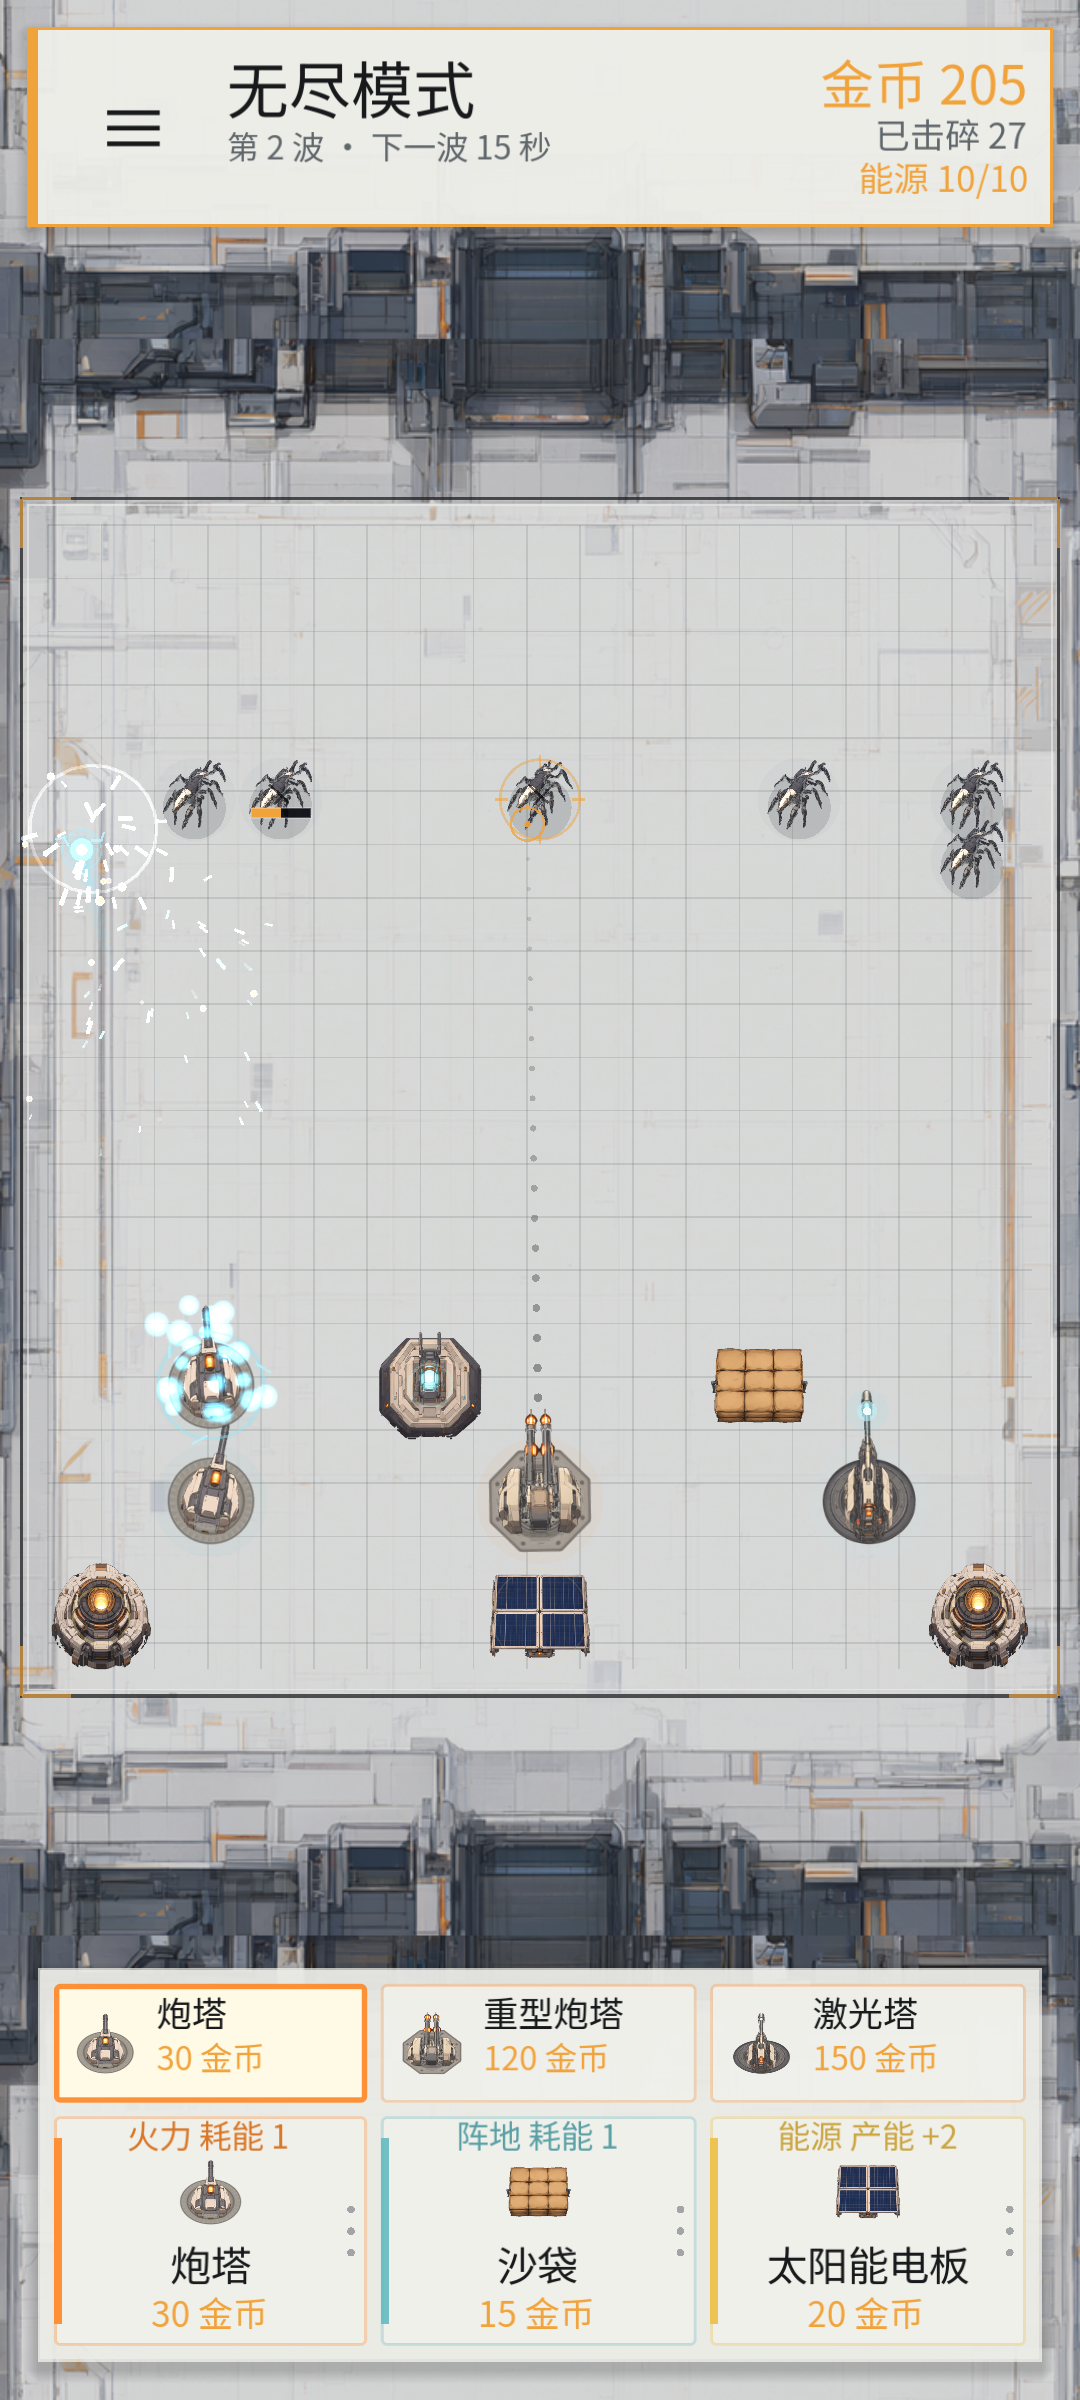
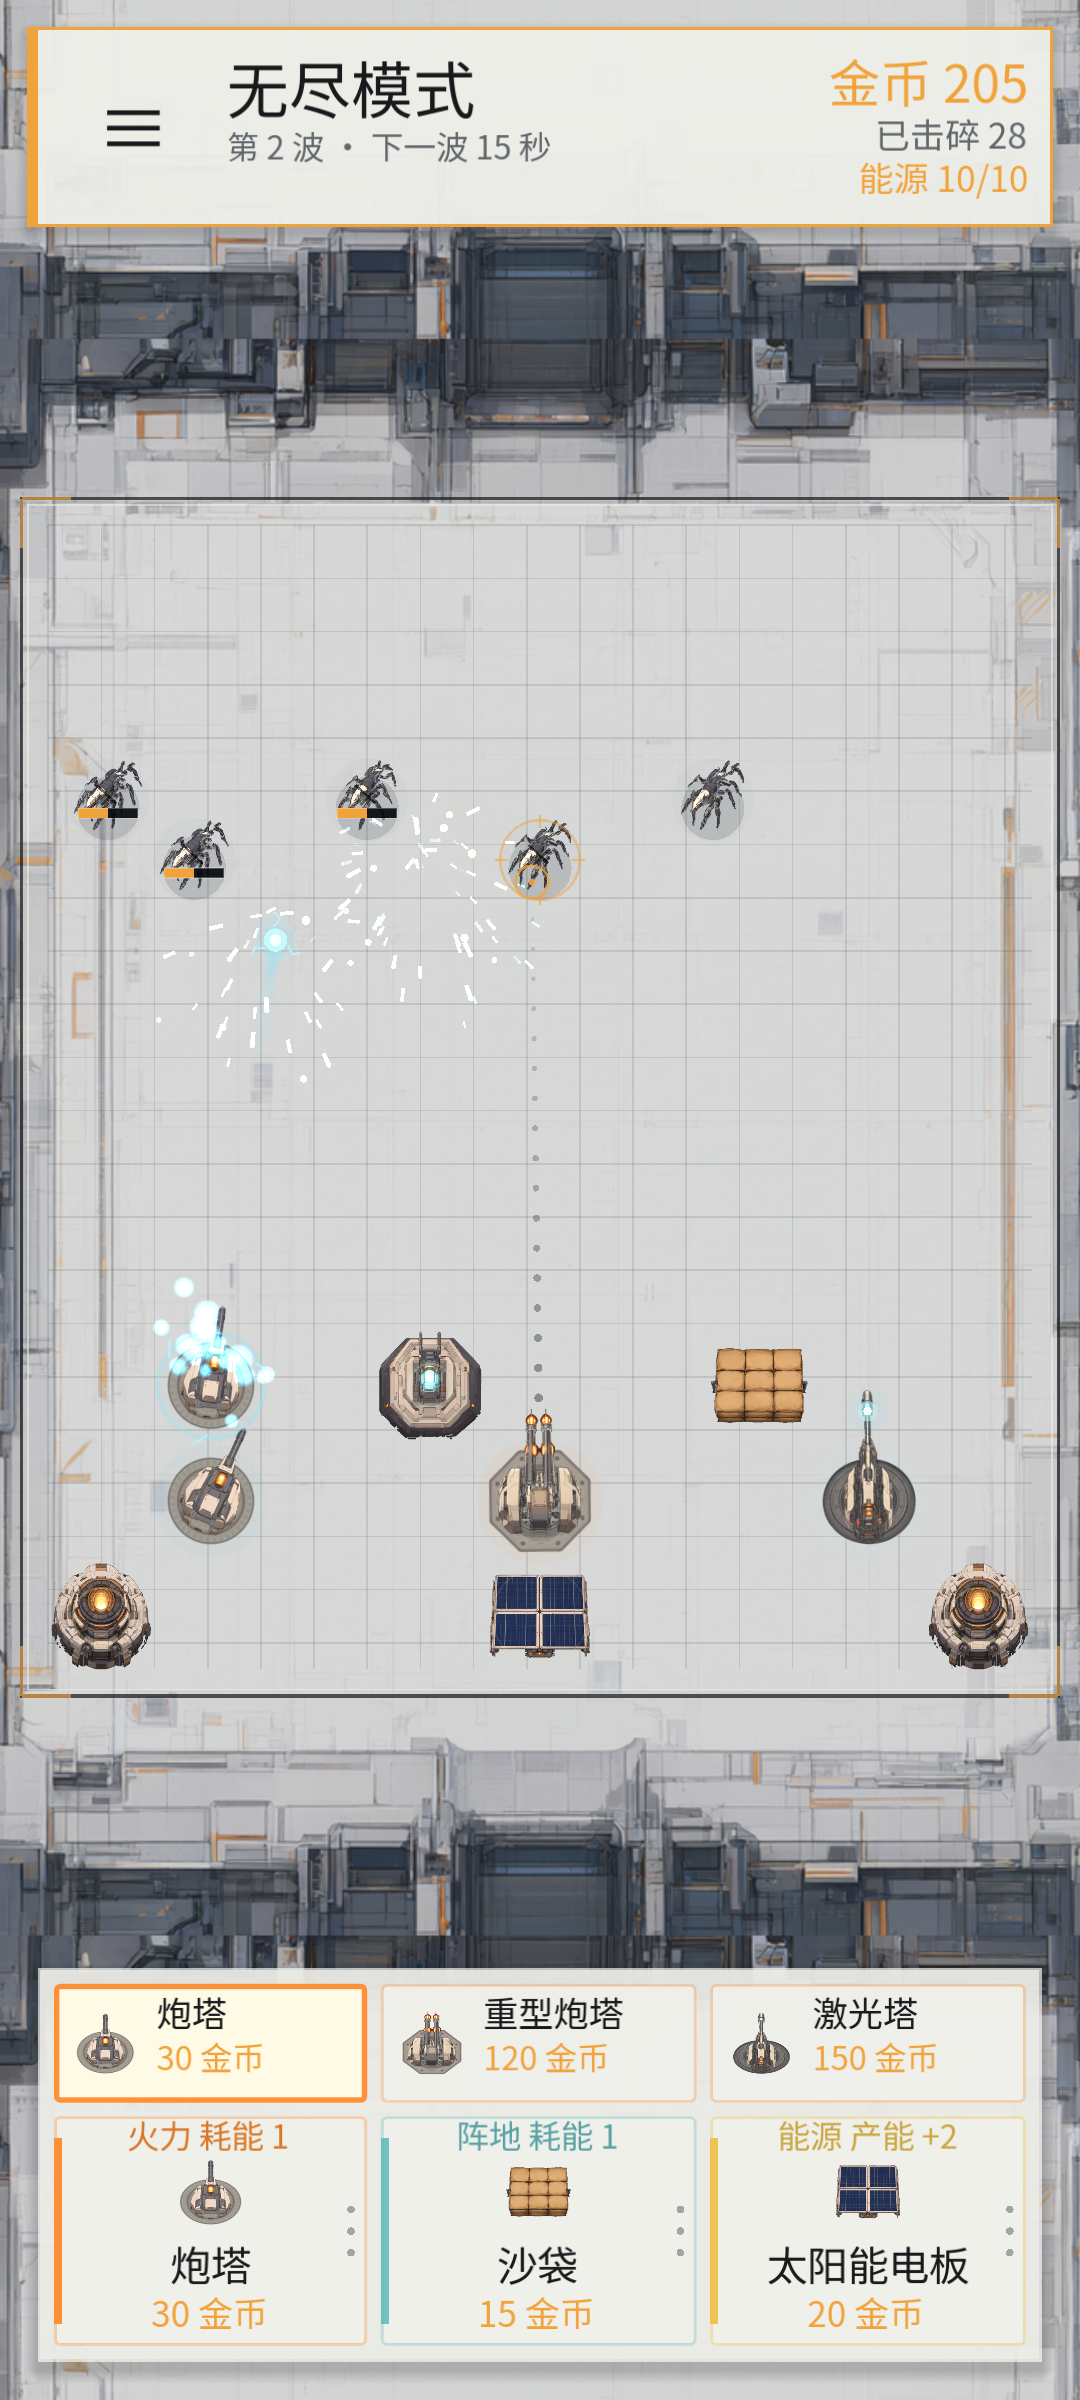
fix: 金币不足时道具项置灰，敌人走到战场底边前淡出

diff --git a/README.md b/README.md
@@ -25,7 +25,7 @@
 已跑通的玩法闭环：
 
 - 开局没有默认建筑，玩家有 50 金币；5 秒准备期内不生成、不滚动方块
-- 底部商店固定三张类别卡：火力、阵地、能源；点击类别切换其道具列表，选中道具后类别卡会显示该道具
+- 底部商店固定三张类别卡：火力、阵地、能源；点击类别切换其道具列表，选中道具后类别卡会显示该道具；金币不足时道具项和类别卡都变灰，道具项仍可点击切换
 - 火力：炮塔基础伤害 1、攻速 3.3 次/秒、射程 300；重型炮塔伤害 10、攻速 0.5 次/秒、射程 500，按威力连续贯穿；激光塔持续光束直接灼烧目标，伤害 5/0.2 秒
 - 火力建筑为 360° 圆形射程，按绿色格子判定目标；拖到格子后直接放置，不需要二次确认，之后自动锁定射程格子内的目标
 - 重型炮塔 120 金币、激光塔 150 金币，和炮塔并列出现在火力道具列表中，直接建造
@@ -40,7 +40,7 @@
 - 开局准备结束后先放 3 只怪；约 12 秒后第二波铺 3 行、约 30 只一起压下来
 - 每波先爆发再留出清场时间：第 2~3 波间隔 27 秒，第 4~5 波 30 秒，第 6 波起 33 秒，形成松紧交替的节奏
 - 一波铺 1~5 行：第 1 波 1 行 3 只，第 2~3 波 3 行，第 4~5 波 4 行，第 6 波起 5 行，单行最多 11 只
-- 方块成排从上往下缓慢滚动，行与行、块与块之间留有随机空隙；滚出底部的方块自动移除
+- 方块成排从上往下缓慢滚动，行与行、块与块之间留有随机空隙；走到战场底边时淡出并移除，不会被裁剪线从中间切断
 - 怪物分为普通、迅捷、装甲、精英四类，分别在第 1/2/3/4 波解锁；迅捷移动更快，装甲与精英拥有更高血量，并有各自的外观标记
 - 普通怪基础血量从 3 开始，每波按 1.28 倍复利增长；血条只在受击后显示 3 秒，重复受击刷新倒计时
 - 点击已放置的建筑打开聚焦面板：火力显示伤害/攻速/射程/穿透/发射数；阵地显示生命、拦截、增益、耗能与状态；能源显示产能、生命、净产能与状态
